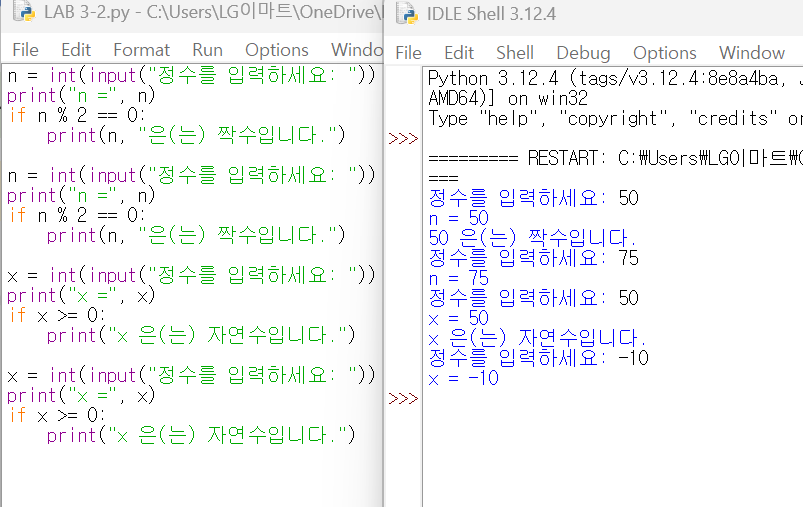
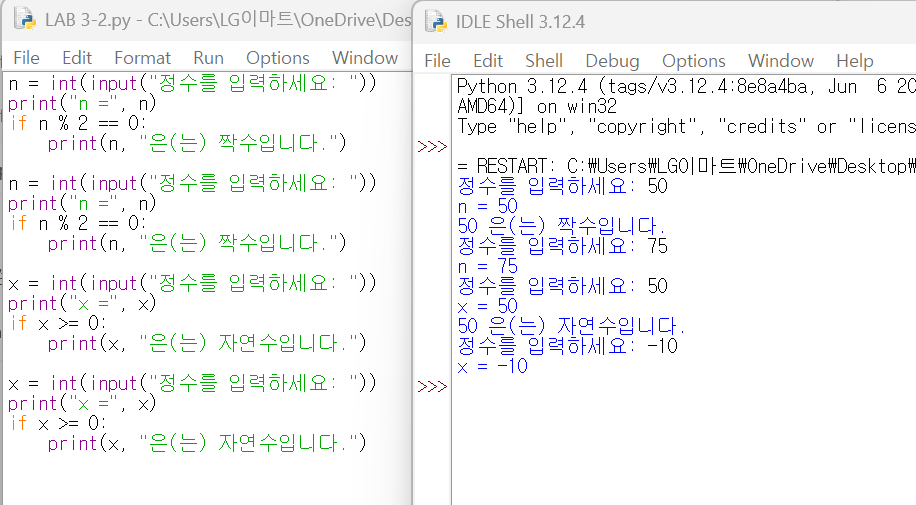
Add files via upload

diff --git a/LAB 3-2.py b/LAB 3-2.py
@@ -11,9 +11,9 @@ if n % 2 == 0:
 x = int(input("정수를 입력하세요: "))
 print("x =", x)
 if x >= 0:
-    print("x 은(는) 자연수입니다.")
+    print(x, "은(는) 자연수입니다.")
 
 x = int(input("정수를 입력하세요: "))
 print("x =", x)
 if x >= 0:
-    print("x 은(는) 자연수입니다.")
+    print(x, "은(는) 자연수입니다.")
